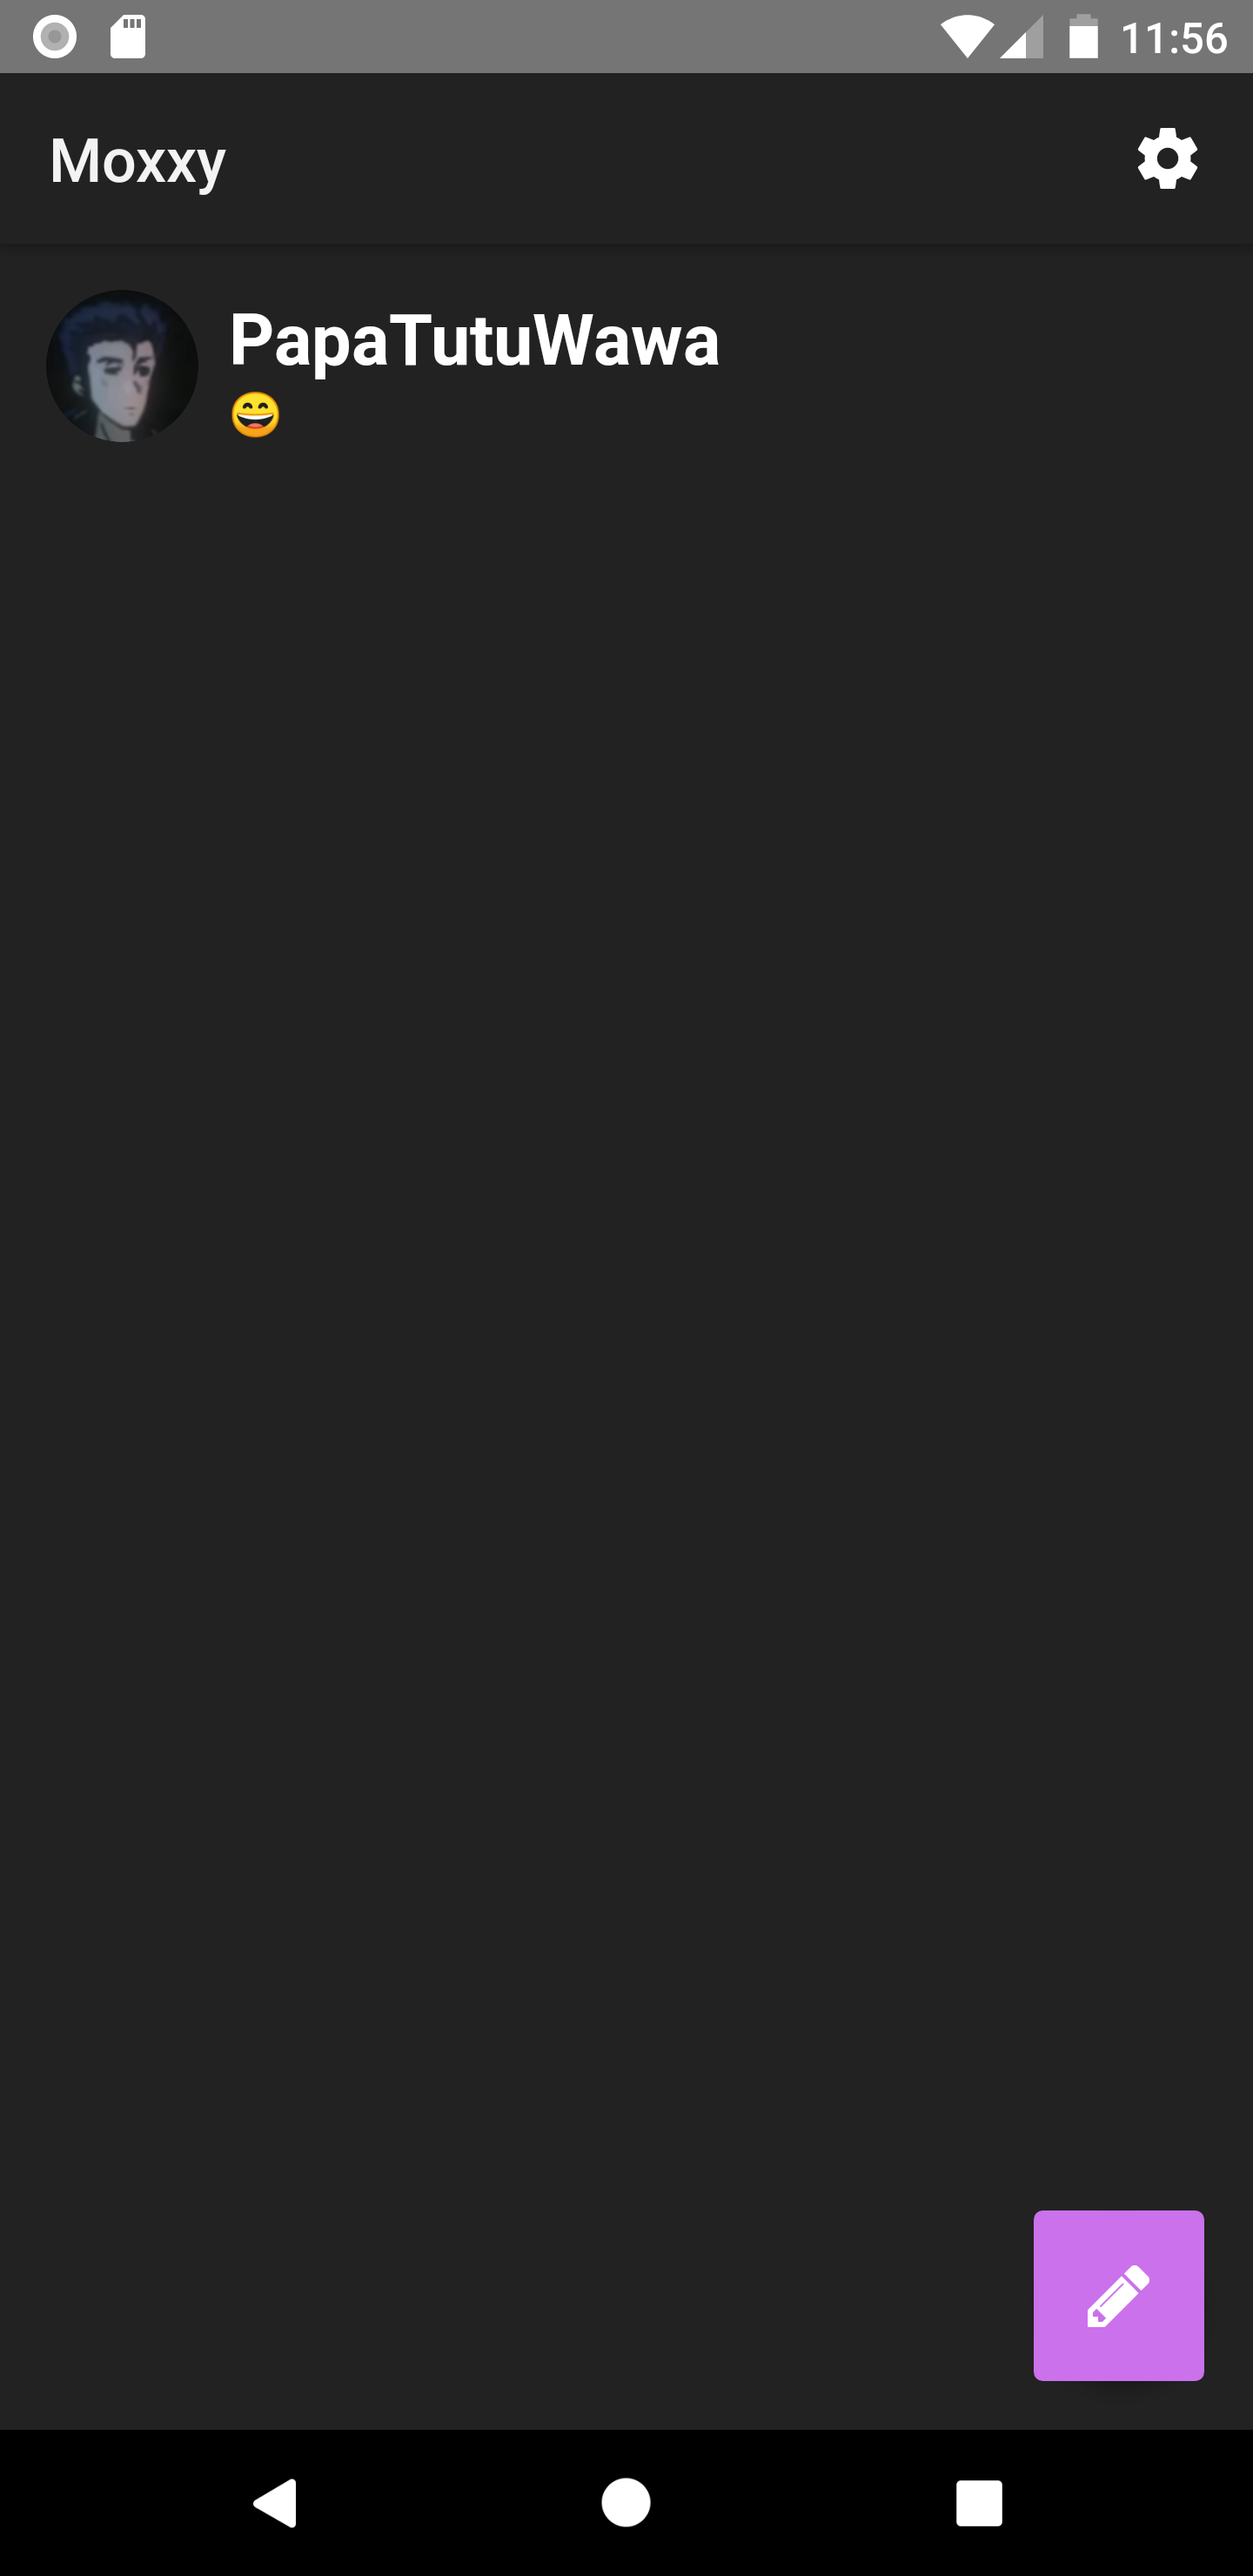
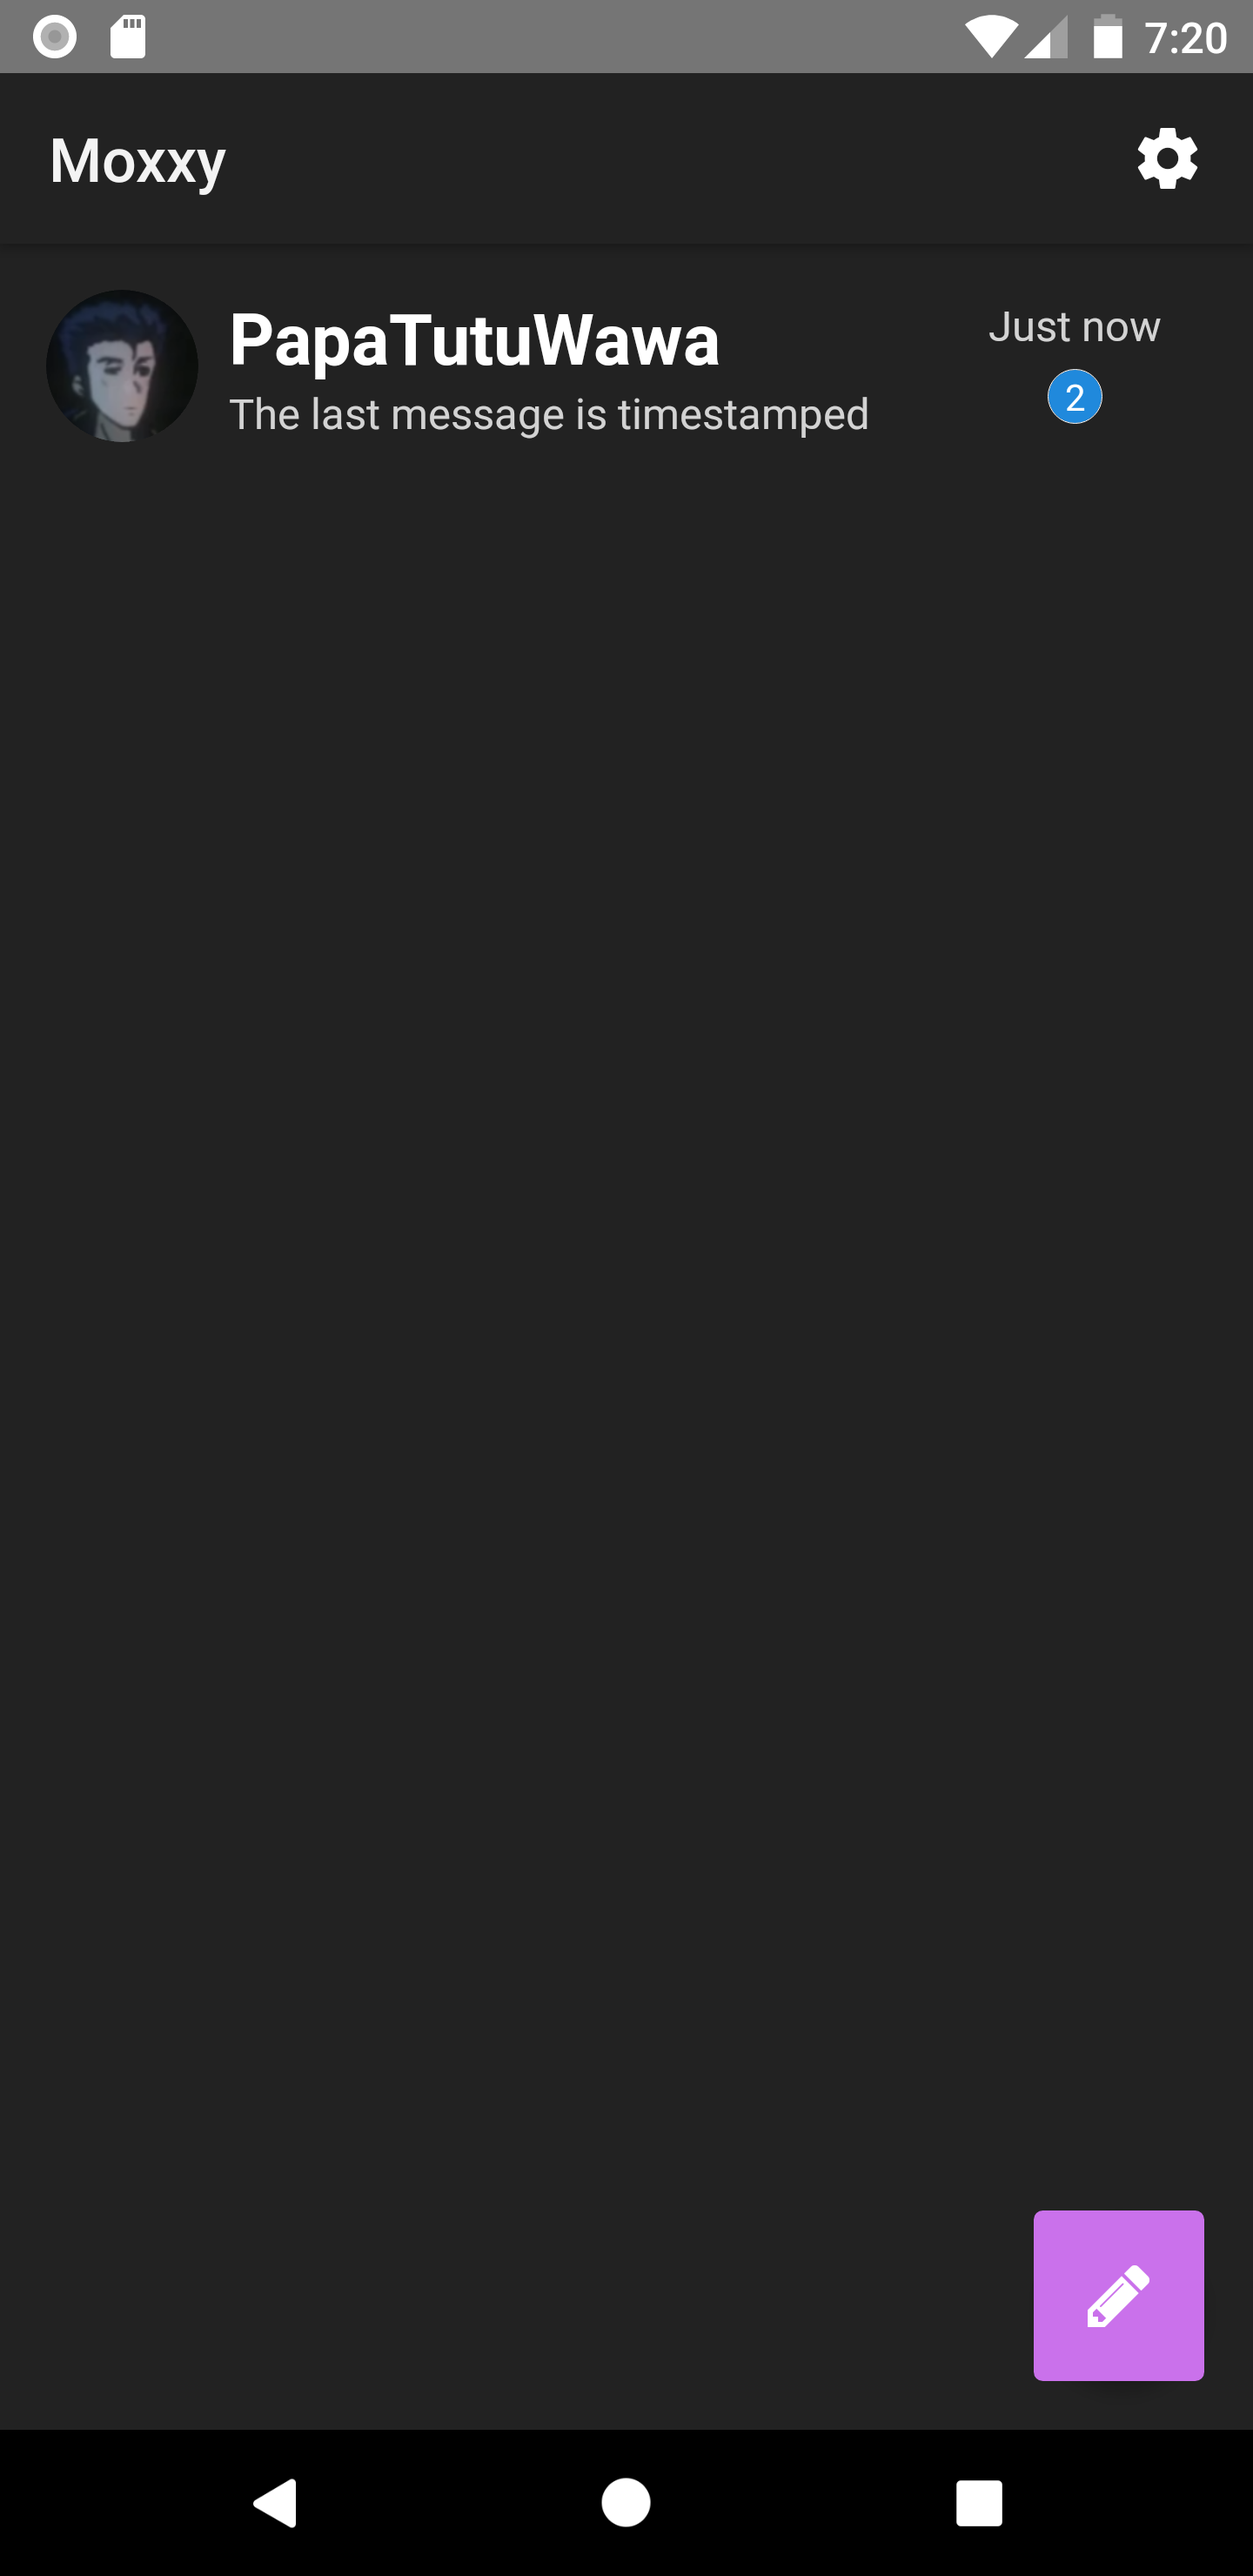
Implement last message timestamp

diff --git a/ui/conversationlist/ConversationsList.tsx b/ui/conversationlist/ConversationsList.tsx
@@ -8,21 +8,54 @@ import { Avatar, Text, Badge, Icon } from "react-native-elements";
 import { useNavigation } from "@react-navigation/native";
 import { PresenceType } from "../../data/Presence";
 import { User } from "../../data/User";
-import { badgeStatus } from "../helpers";
+import { badgeStatus, padNumber } from "../helpers";
 import Conversation from "../../app/model/conversation";
 import { Routes } from "../constants";
+
+/**
+ * Formats a timestamp for a last message to either "12h", if the time since the last message
+ * is less than 24h to the time of calling this function or "23.09", if greater.
+ */
+function lastMessageTimestampText(timestamp: number): string {
+    const now = Date.now();
+    const minuteDifference = (now - timestamp) / (1000 * 60);
+
+    if (minuteDifference > 60) {
+        const hourDifference = Math.round(minuteDifference / 60);
+        if (minuteDifference / 60 > 24) {
+            const date = new Date(timestamp);
+            const paddedDay = padNumber(date.getDay());
+            const paddedMonth = padNumber(date.getMonth());
+            return `${paddedDay}:${paddedMonth}`;
+        } else {
+            return `${hourDifference}h`
+        }
+    } else if (minuteDifference < 1) {
+        return `Just now`;
+    }
+
+    return `${Math.round(minuteDifference)} min`;
+}
 
 class ConversationsList extends Component {
     private navigation: any;
     private conversations: Conversation[];
+    private refreshTimer: number;
 
     constructor(props: any) {
         super(props);
 
         this.navigation = props.navigation;
         this.conversations = props.conversationsList;
+        this.refreshTimer = setTimeout(() => {
+            this.forceUpdate();
+        }, 60 * 1000);
     }
     
+    componentWillUnmount = () => {
+        clearTimeout(this.refreshTimer);
+    }
+
     onItemPress(conversation: Conversation) {
         // NOTE: setParams is required for the Header to receive the route params
         //this.navigation.setParams({ user: user });
@@ -56,13 +89,17 @@ class ConversationsList extends Component {
                             ellipsizeMode="tail"
                             numberOfLines={1}>{item.lastMessageText}</Text>
                     </View>
+
                     <View style={{ flex: 1 }} />
-                    { item.unreadMessagesCount > 0 && (
-                        <View style={{ justifyContent: "center", marginLeft: 10 }}>
-                            <Badge
-                                value={item.unreadMessagesCount} status="primary" />
-                        </View>
-                    )}
+                    <View style={{ paddingTop: 2 }}>
+                        {/* TODO: Calculate the time difference */}
+                        { item.lastMessageText !== "" && <Text style={{ color: "lightgray" }}>{lastMessageTimestampText(item.lastMessageTimestamp)}</Text> }
+                        { item.unreadMessagesCount > 0 && (
+                                <Badge
+                                    containerStyle={{ paddingTop: 5 }}
+                                    value={item.unreadMessagesCount} status="primary" />
+                        )}
+                    </View>
                 </TouchableOpacity>
         );
     }

diff --git a/app/ConversationCache.ts b/app/ConversationCache.ts
@@ -39,28 +39,6 @@ export default class ConversationCache extends EventEmitter {
         return this.cache[jid];
     };
 
-    public updateConversation = (jid: string, args: any): Promise<void> => {
-        return this.database.write(async () => {
-            const conversation = await this.database.get(Conversation.table).query(
-                Q.where("jid", jid)
-            ).fetch(); // TODO
-            await conversation[0].update(() => {
-                if ("lastMessageText" in args)
-                    conversation[0].lastMessageText = args.lastMessageText;
-                if ("lastMessageOOB" in args)
-                    conversation[0].lastMessageOOB = args.lastMessageOOB;
-                if ("unreadMessagesCountInc" in args) {
-                    conversation[0].unreadMessagesCount = conversation[0].unreadMessagesCount + args.unreadMessagesCountInc;
-                } else if ("unreadMessagesCount" in args) {
-                    conversation[0].unreadMessagesCount = args.unreadMessagedCount;
-                }
-            });
-
-            this.cache[jid] = conversation[0] as Conversation;
-            this.emit("conversationUpdated", conversation[0]);
-        });
-    }
-
     public markAsRead = async (jid: string) => {
         const conversation = await this.getConversationByJid(jid);
         conversation.markAsRead(conversation => {
@@ -76,9 +54,9 @@ export default class ConversationCache extends EventEmitter {
         }));
     }
 
-    public conversationNewMessageAdded = async (jid: string, messageBody: string, incrementUnread: boolean = false) => {
+    public conversationNewMessageAdded = async (jid: string, timestamp: number, messageBody: string, incrementUnread: boolean = false) => {
         const conversation = await this.getConversationByJid(jid);
-        conversation.updateLastMessage(messageBody, incrementUnread, (conversation: Conversation) => {
+        conversation.updateLastMessage(messageBody, timestamp, incrementUnread, (conversation: Conversation) => {
             this.cache[jid] = conversation;
             this.emit("conversationUpdated", conversation);
         });
@@ -109,6 +87,7 @@ export default class ConversationCache extends EventEmitter {
                 convo.title = conversation.title;
                 convo.jid = conversation.jid;
                 convo.lastMessageText = conversation.lastMessageText;
+                convo.lastMessageTimestamp = conversation.lastMessageTimestamp;
                 convo.lastMessageOOB = conversation.lastMessageOOB;
                 convo.unreadMessagesCount = conversation.unreadMessagesCount;
                 convo.avatarUrl = conversation.avatarUrl;

diff --git a/app/Repository.ts b/app/Repository.ts
@@ -112,6 +112,7 @@ export default class AppRepository {
                 const hasConversation = await this.getConversationCache().hasConversation(bareJid);
                 // TODO: Use [Image], [File], [Video]
                 const lastMessageText = isOOB ? "[Image]" : msg.body;
+                const timestamp = new Date().getTime();
                 console.log(lastMessageText);
                 let promiseChain = new Promise((res, rej) => res(null));
                 if (!hasConversation)
@@ -127,6 +128,7 @@ export default class AppRepository {
                             title,
                             jid: bareJid,
                             lastMessageText,
+                            lastMessageTimestamp: timestamp,
                             lastMessageOOB: isOOB,
                             unreadMessagesCount: 1,
                             type: ConversationType.DIRECT,
@@ -138,7 +140,7 @@ export default class AppRepository {
                         body: msg.body,
                         sentIn: bareJid,
                         sent: false,
-                        timestamp: new Date().getTime(),
+                        timestamp: timestamp,
                         stanzaId: msg.stanzaIds["id"],
                         encryption: MessageEncryptionType.NONE, // TODO
                         oobUrl: isOOB ? msg.links[0].url : ""
@@ -149,7 +151,7 @@ export default class AppRepository {
                     // Prevent us from updating the list item twice
                     promiseChain.then(async () => {
                         console.log(`Open JID: ${this.getOpenConversationJid()}`);
-                        await this.getConversationCache().conversationNewMessageAdded(bareJid, lastMessageText, this.getOpenConversationJid() !== bareJid)
+                        await this.getConversationCache().conversationNewMessageAdded(bareJid, timestamp, lastMessageText, this.getOpenConversationJid() !== bareJid)
                     });
                 else
                     promiseChain.then(async () => {

diff --git a/app/model/conversation.ts b/app/model/conversation.ts
@@ -12,12 +12,12 @@ export default class Conversation extends Model {
     @field("unread_messages_count") unreadMessagesCount: number;
     @text("avatar_url") avatarUrl: string;
     @field("type") type: ConversationType;
-    // @field("last_message_timestamp") lastMessageTimestamp: number;
+    @field("last_message_timestamp") lastMessageTimestamp: number;
 
-    @writer async updateLastMessage (body: string, incrementUnread: boolean = false, callback: (conversation: Conversation) => void = () => {}) {
+    @writer async updateLastMessage (body: string, timestamp: number, incrementUnread: boolean = false, callback: (conversation: Conversation) => void = () => {}) {
         await this.update(conversation => {
             conversation.lastMessageText = body;
-            // conversation.lastMessageTimestamp = ???;
+            conversation.lastMessageTimestamp = timestamp
 
             if (incrementUnread)
                 conversation.unreadMessagesCount += 1;

diff --git a/ui/newconversation/NewConversation.tsx b/ui/newconversation/NewConversation.tsx
@@ -33,7 +33,6 @@ function renderGroupchatItem({item}) {
 
 function ContactList(props: any) {
     const navigation = useNavigation();
-
 }
 
 function GroupchatList(props: any) {
@@ -127,6 +126,7 @@ class RosterListWrapper extends React.Component {
                             avatarUrl: item.avatarUrl,
                             jid: item.jid,
                             lastMessageText: "",
+                            lastMessageTimestamp: 0,
                             unreadMessagesCount: 0,
                             title: item.nickname ? item.nickname : item.jid.split("@")[0], // TODO: Check the split stuff
                             type: ConversationType.DIRECT

diff --git a/app/model/schema.ts b/app/model/schema.ts
@@ -9,6 +9,7 @@ export default appSchema({
                 { name: "title", type: "string" },
                 { name: "jid", type: "string" },
                 { name: "last_message_text", type: "string" },
+                { name: "last_message_timestamp", type: "number" },
                 { name: "last_message_oob", type: "boolean" },
                 { name: "unread_messages_count", type: "number" },
                 { name: "avatar_url", type: "string" },
